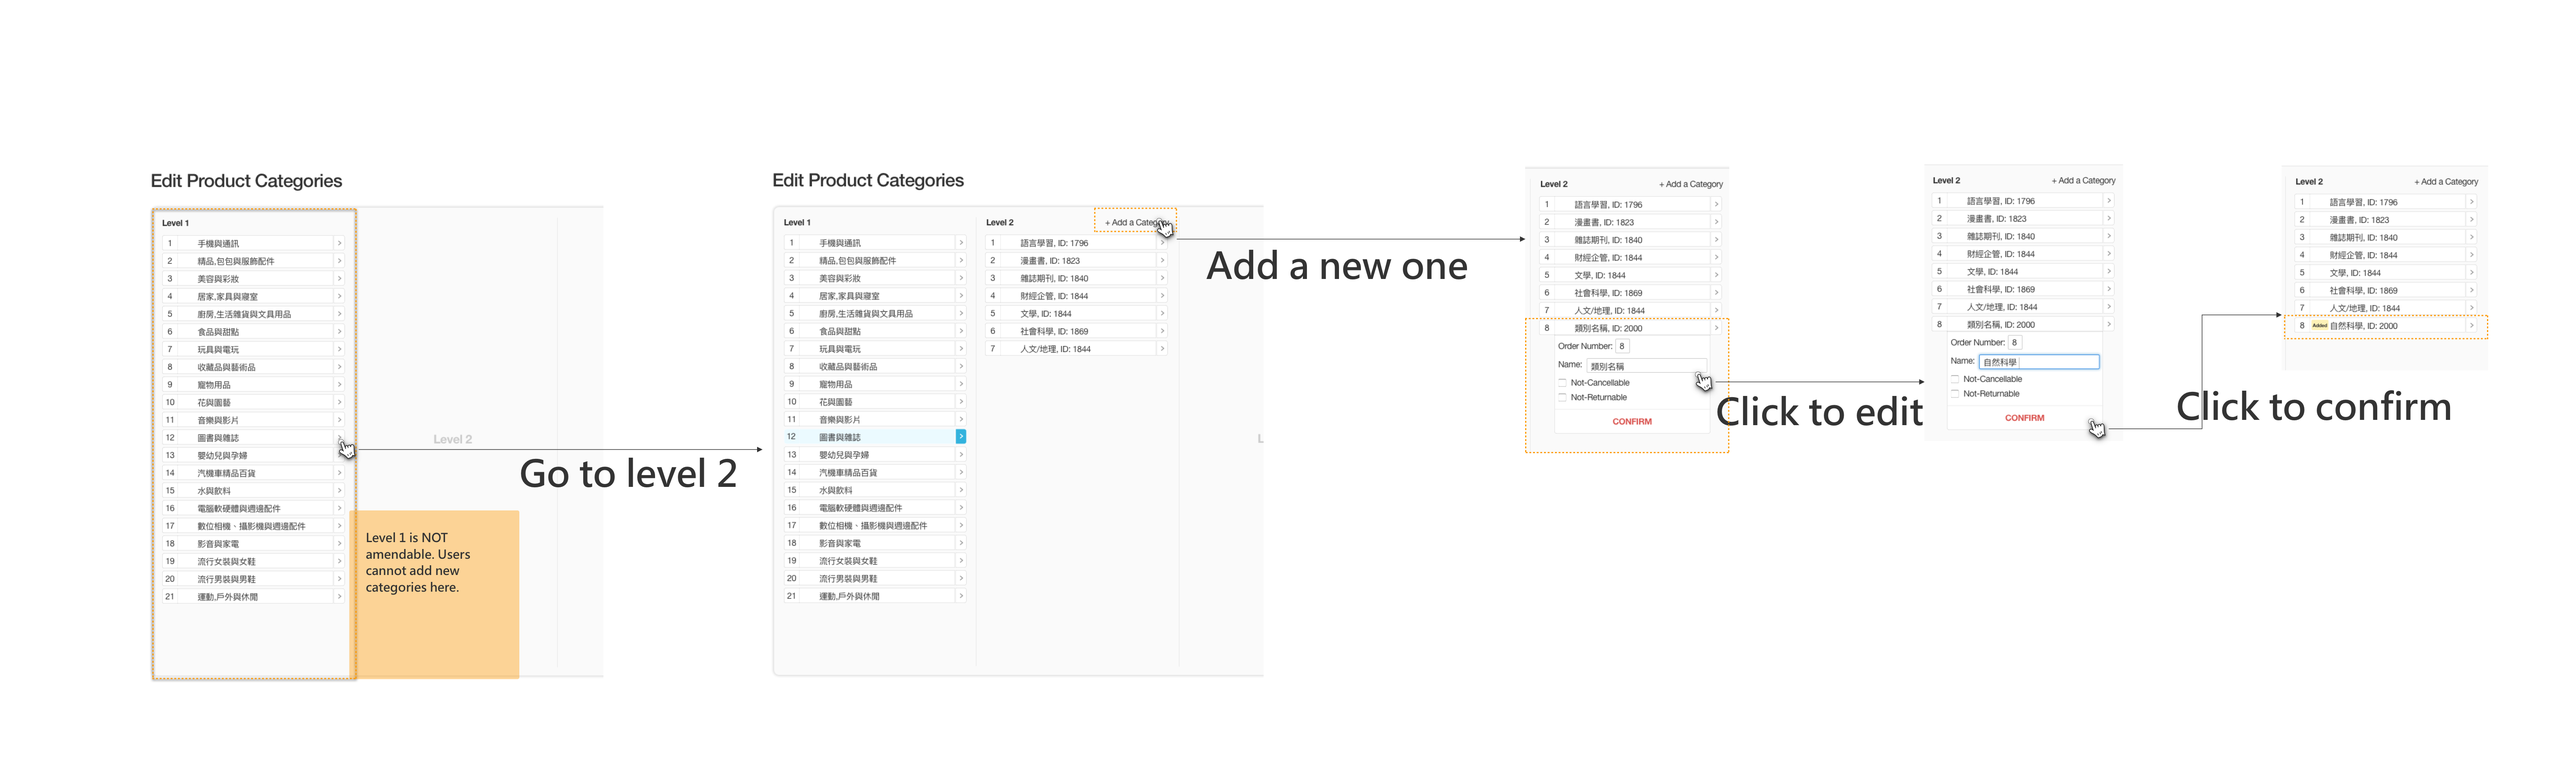
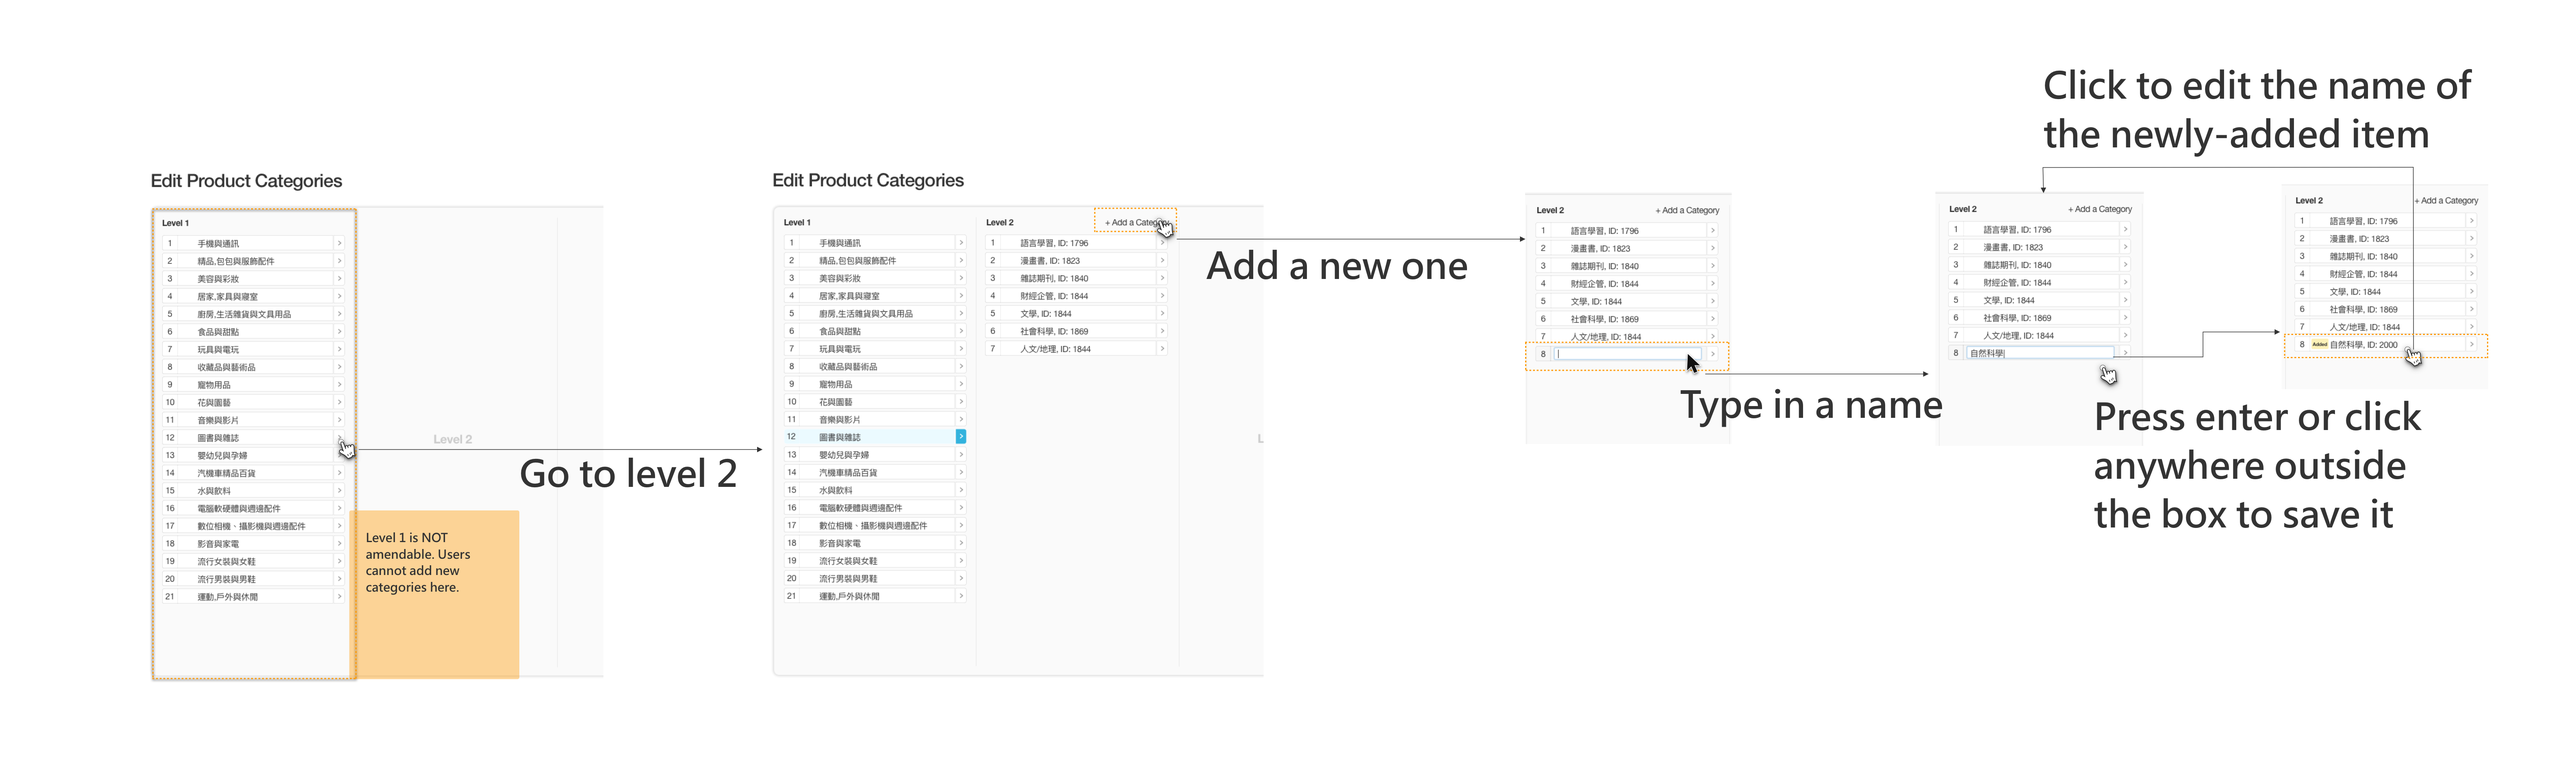
flow 2 updated

diff --git a/IBS/flow2/index.html b/IBS/flow2/index.html
@@ -341,7 +341,7 @@
   </script>
   <script>
     new Proto(
-      {"title":"IBS (23-08-2019)","flowStartArtboardId":"F5E857C4-614B-40F2-A58E-113AD67B702A","artboards":{"F5E857C4-614B-40F2-A58E-113AD67B702A":{"title":"F2_TW_ManageProductCategory_Level1","width":1440,"height":1098,"viewportWidth":1440,"viewportHeight":900,"hotspots":[{"rectangle":{"x":360,"y":573,"width":21,"height":33},"target":"9E43D500-5F40-42D9-B47C-4C1296FD0FF3","isFixed":0}],"hasFixedLayers":false},"9E43D500-5F40-42D9-B47C-4C1296FD0FF3":{"title":"F2_TW_ManageProductCategory_Book_Level2","width":1440,"height":1098,"viewportWidth":1440,"viewportHeight":900,"hotspots":[{"rectangle":{"x":364,"y":573,"width":17,"height":29},"target":"F5E857C4-614B-40F2-A58E-113AD67B702A","isFixed":0},{"rectangle":{"x":608,"y":229,"width":105,"height":17},"target":"B72BB8D5-8637-4FF9-B5B1-C6411601DDCF","isFixed":0}],"hasFixedLayers":false},"B72BB8D5-8637-4FF9-B5B1-C6411601DDCF":{"title":"F2_TW_ManageProductCategory_Book_Level2_Add","width":1440,"height":1098,"viewportWidth":1440,"viewportHeight":900,"hotspots":[{"rectangle":{"x":364,"y":573,"width":17,"height":29},"target":"F5E857C4-614B-40F2-A58E-113AD67B702A","isFixed":0},{"rectangle":{"x":488,"y":525,"width":204,"height":24},"target":"2C83B81F-B22B-4567-AE22-771300825DDC","isFixed":0}],"hasFixedLayers":false},"2C83B81F-B22B-4567-AE22-771300825DDC":{"title":"F2_TW_ManageProductCategory_Book_Level2_Add_Confirm","width":1440,"height":1098,"viewportWidth":1440,"viewportHeight":900,"hotspots":[{"rectangle":{"x":364,"y":573,"width":17,"height":29},"target":"F5E857C4-614B-40F2-A58E-113AD67B702A","isFixed":0},{"rectangle":{"x":436,"y":609,"width":256,"height":39},"target":"446271ED-A651-4100-8C3A-97CE7A36691A","isFixed":0}],"hasFixedLayers":false},"446271ED-A651-4100-8C3A-97CE7A36691A":{"title":"F2_TW_ManageProductCategory_Book_Level2_Added","width":1440,"height":1098,"viewportWidth":1440,"viewportHeight":900,"hotspots":[],"hasFixedLayers":false}}}
+      {"title":"IBS (13092019)","flowStartArtboardId":"F5E857C4-614B-40F2-A58E-113AD67B702A","artboards":{"F5E857C4-614B-40F2-A58E-113AD67B702A":{"title":"F2_TW_ManageProductCategory_Level1","width":1440,"height":1098,"viewportWidth":1440,"viewportHeight":900,"hotspots":[{"rectangle":{"x":360,"y":573,"width":21,"height":33},"target":"9E43D500-5F40-42D9-B47C-4C1296FD0FF3","isFixed":0}],"hasFixedLayers":false},"9E43D500-5F40-42D9-B47C-4C1296FD0FF3":{"title":"F2_TW_ManageProductCategory_Book_Level2","width":1440,"height":1098,"viewportWidth":1440,"viewportHeight":900,"hotspots":[{"rectangle":{"x":364,"y":573,"width":17,"height":29},"target":"F5E857C4-614B-40F2-A58E-113AD67B702A","isFixed":0},{"rectangle":{"x":608,"y":229,"width":105,"height":17},"target":"B72BB8D5-8637-4FF9-B5B1-C6411601DDCF","isFixed":0}],"hasFixedLayers":false},"B72BB8D5-8637-4FF9-B5B1-C6411601DDCF":{"title":"F2_TW_ManageProductCategory_Book_Level2_Add","width":1440,"height":1098,"viewportWidth":1440,"viewportHeight":900,"hotspots":[{"rectangle":{"x":364,"y":573,"width":17,"height":29},"target":"F5E857C4-614B-40F2-A58E-113AD67B702A","isFixed":0},{"rectangle":{"x":439,"y":463,"width":272,"height":24},"target":"F9FAB93A-9CC6-4EC7-A068-387275EE22AC","isFixed":0}],"hasFixedLayers":false},"F9FAB93A-9CC6-4EC7-A068-387275EE22AC":{"title":"F2_TW_ManageProductCategory_Book_Level2_Add_Name","width":1440,"height":1098,"viewportWidth":1440,"viewportHeight":900,"hotspots":[{"rectangle":{"x":364,"y":573,"width":17,"height":29},"target":"F5E857C4-614B-40F2-A58E-113AD67B702A","isFixed":0},{"rectangle":{"x":65,"y":213,"width":1291,"height":768},"target":"446271ED-A651-4100-8C3A-97CE7A36691A","isFixed":0}],"hasFixedLayers":false},"446271ED-A651-4100-8C3A-97CE7A36691A":{"title":"F2_TW_ManageProductCategory_Book_Level2_Added","width":1440,"height":1098,"viewportWidth":1440,"viewportHeight":900,"hotspots":[{"rectangle":{"x":412,"y":458,"width":283,"height":29},"target":"F9FAB93A-9CC6-4EC7-A068-387275EE22AC","isFixed":0}],"hasFixedLayers":false}}}
     );
   </script>
 
